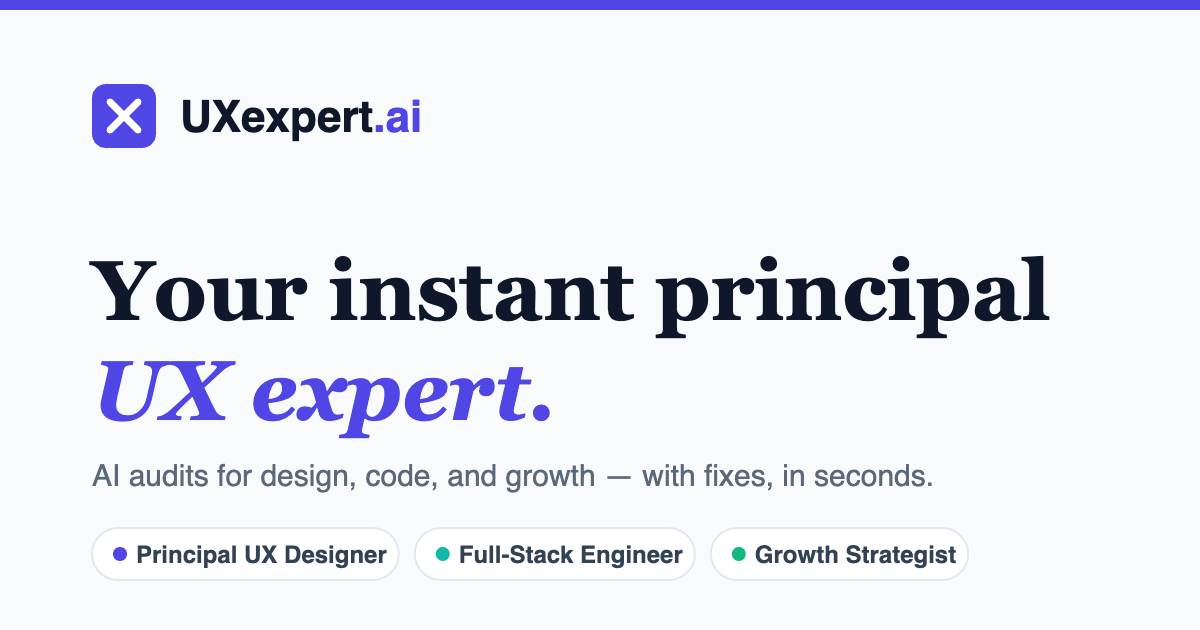
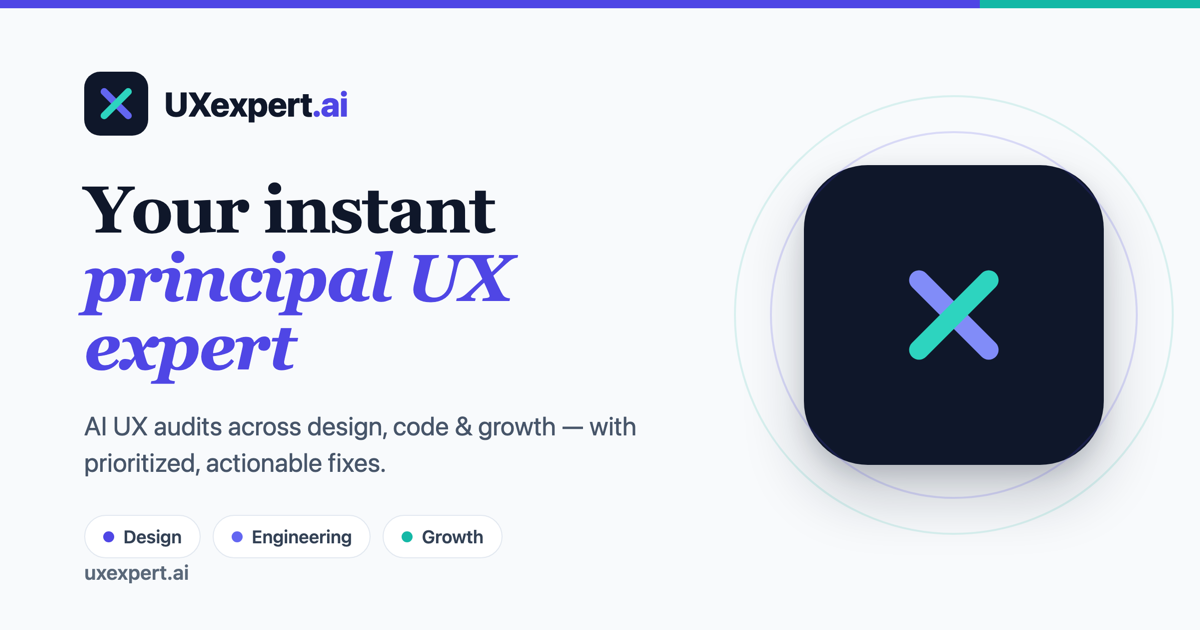
Deploy: new OG social image (Prism X) + cache-busted og:image refs

diff --git a/index.html b/index.html
@@ -11,13 +11,13 @@
 <meta property="og:type" content="website">
 <meta property="og:site_name" content="UXexpert.ai">
 <meta property="og:url" content="https://uxexpert.ai/">
-<meta property="og:image" content="https://uxexpert.ai/og.png">
+<meta property="og:image" content="https://uxexpert.ai/og.png?v=20260810">
 <meta property="og:image:width" content="1200">
 <meta property="og:image:height" content="630">
 <meta name="twitter:card" content="summary_large_image">
 <meta name="twitter:title" content="UXexpert.ai — Your Instant Principal UX Expert">
 <meta name="twitter:description" content="Upload your web app. Get an AI UX expert review of design, code, and growth with prioritized, actionable fixes.">
-<meta name="twitter:image" content="https://uxexpert.ai/og.png">
+<meta name="twitter:image" content="https://uxexpert.ai/og.png?v=20260810">
 <meta property="og:image:alt" content="UXexpert.ai AI UX audit report showing prioritized design, code, and growth fixes">
 <meta property="og:locale" content="en_US">
 <meta name="robots" content="index, follow, max-image-preview:large, max-snippet:-1, max-video-preview:-1">
@@ -33,7 +33,7 @@
 {"@context":"https://schema.org","@type":"SoftwareApplication","name":"UXexpert.ai","alternateName":"UXexpert","url":"https://uxexpert.ai","slogan":"Your instant principal UX expert","applicationCategory":"DeveloperApplication","operatingSystem":"Web","browserRequirements":"Requires JavaScript. Runs in any modern browser.","featureList":["AI UX audit across design, engineering and growth lenses","Accessibility and WCAG checks","Code-native fixes with pasteable snippets","Screenshot audits via Claude vision","Live URL and GitHub repository audits","User stories with acceptance criteria","Markdown export"],"description":"AI UX expert for instant website UX audits: design, accessibility, code quality, performance, and conversion review with prioritized fixes.","offers":{"@type":"Offer","price":"0","priceCurrency":"USD"}}
 </script>
 <script type="application/ld+json">
-[{"@context":"https://schema.org","@type":"Organization","name":"UXexpert.ai","url":"https://uxexpert.ai","logo":"https://uxexpert.ai/og.png","contactPoint":{"@type":"ContactPoint","email":"hello@uxexpert.ai","contactType":"customer support"}},
+[{"@context":"https://schema.org","@type":"Organization","name":"UXexpert.ai","url":"https://uxexpert.ai","logo":"https://uxexpert.ai/og.png?v=20260810","contactPoint":{"@type":"ContactPoint","email":"hello@uxexpert.ai","contactType":"customer support"}},
 {"@context":"https://schema.org","@type":"WebSite","name":"UXexpert.ai","url":"https://uxexpert.ai"}]
 </script>
 <style>

diff --git a/pricing/index.html b/pricing/index.html
@@ -11,11 +11,11 @@
 <meta property="og:type" content="website">
 <meta property="og:site_name" content="UXexpert.ai">
 <meta property="og:url" content="https://uxexpert.ai/pricing/">
-<meta property="og:image" content="https://uxexpert.ai/og.png">
+<meta property="og:image" content="https://uxexpert.ai/og.png?v=20260810">
 <meta property="og:image:width" content="1200">
 <meta property="og:image:height" content="630">
 <meta name="twitter:card" content="summary_large_image">
-<meta name="twitter:image" content="https://uxexpert.ai/og.png">
+<meta name="twitter:image" content="https://uxexpert.ai/og.png?v=20260810">
 <meta name="robots" content="index, follow, max-image-preview:large, max-snippet:-1">
 <link rel="canonical" href="https://uxexpert.ai/pricing/">
 <meta http-equiv="Content-Security-Policy" content="default-src 'self'; script-src https://plausible.io; connect-src 'self' https://plausible.io; img-src 'self' data:; style-src 'unsafe-inline'; base-uri 'none'; object-src 'none'; form-action 'self'">

diff --git a/about/index.html b/about/index.html
@@ -11,11 +11,11 @@
 <meta property="og:type" content="website">
 <meta property="og:site_name" content="UXexpert.ai">
 <meta property="og:url" content="https://uxexpert.ai/about/">
-<meta property="og:image" content="https://uxexpert.ai/og.png">
+<meta property="og:image" content="https://uxexpert.ai/og.png?v=20260810">
 <meta property="og:image:width" content="1200">
 <meta property="og:image:height" content="630">
 <meta name="twitter:card" content="summary_large_image">
-<meta name="twitter:image" content="https://uxexpert.ai/og.png">
+<meta name="twitter:image" content="https://uxexpert.ai/og.png?v=20260810">
 <meta name="robots" content="index, follow, max-image-preview:large, max-snippet:-1">
 <link rel="canonical" href="https://uxexpert.ai/about/">
 <meta http-equiv="Content-Security-Policy" content="default-src 'self'; script-src https://plausible.io; connect-src 'self' https://plausible.io; img-src 'self' data:; style-src 'unsafe-inline'; base-uri 'none'; object-src 'none'; form-action 'self'">
